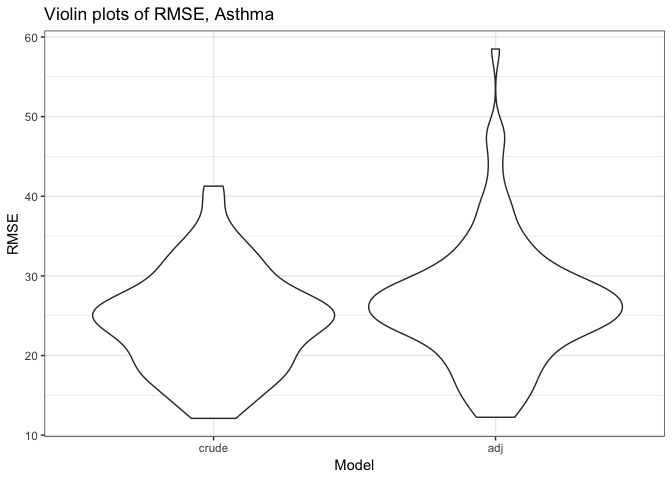
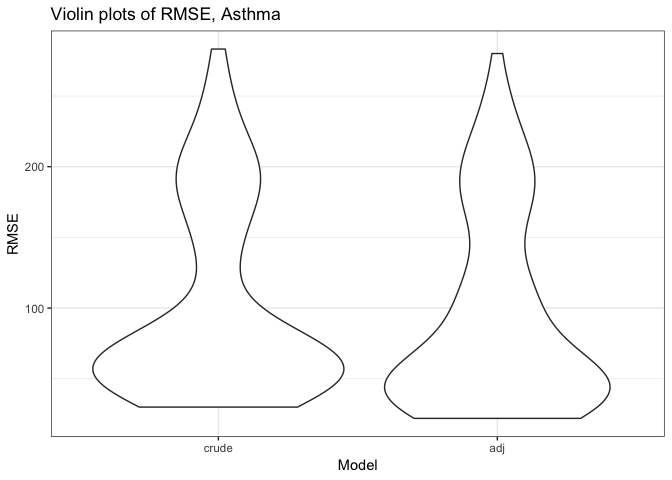
finished model building

diff --git a/model_building.md b/model_building.md
@@ -148,8 +148,8 @@ cv_asthma = crossv_mc(nys_joined, 100)
 # Fit candidate models
 options(warn = -1) # suppress printing all the warnings
 cv_asthma = cv_asthma %>%
-  mutate(crude_asthma_mod = map(train, ~lm(cvd_percent_rate ~ total_unhealthy_days, data = .x)),
-         adj_asthma_mod = map(train, ~lm(cvd_percent_rate ~ total_unhealthy_days + number_of_hospitals, data = .x))) %>%
+  mutate(crude_asthma_mod = map(train, ~lm(asthma_hosp_percent_rate_ratio ~ total_unhealthy_days, data = .x)),
+         adj_asthma_mod = map(train, ~lm(asthma_hosp_percent_rate_ratio ~ total_unhealthy_days + number_of_hospitals, data = .x))) %>%
   mutate(rmse_crude = map2_dbl(crude_asthma_mod, test, ~rmse(model = .x, data = .y)),
          rmse_adj = map2_dbl(adj_asthma_mod, test, ~rmse(model = .x, data = .y)))
 
@@ -169,3 +169,74 @@ cv_asthma %>%
 ```
 
 <img src="model_building_files/figure-markdown_github/asthma_cv-1.png" width="90%" />
+
+#### Diagnostics of adjusted asthma model
+
+``` r
+# Plotting residuals
+nys_joined %>%
+  add_residuals(adj_asthma_model) %>%
+  add_predictions(adj_asthma_model) %>%
+  ggplot(aes(x = pred, y = resid)) + 
+  labs(
+    title = "Plot of residuals against fitted values",
+    x = "Predicted values",
+    y = "Residuals"
+  ) +
+  geom_point(alpha = .5) + 
+  geom_smooth(se = FALSE)
+## `geom_smooth()` using method = 'loess' and formula 'y ~ x'
+```
+
+<img src="model_building_files/figure-markdown_github/asthma_diagnostics-1.png" width="90%" />
+
+#### CVD model
+
+``` r
+set.seed(1)
+cv_cvd = crossv_mc(nys_joined, 100) 
+
+# Fit candidate models
+options(warn = -1) # suppress printing all the warnings
+cv_cvd = cv_cvd %>%
+  mutate(crude_cvd_mod = map(train, ~lm(cvd_percent_rate ~ total_unhealthy_days, data = .x)),
+         adj_cvd_mod = map(train, ~lm(cvd_percent_rate ~ total_unhealthy_days + number_of_hospitals, data = .x))) %>%
+  mutate(rmse_crude = map2_dbl(crude_cvd_mod, test, ~rmse(model = .x, data = .y)),
+         rmse_adj = map2_dbl(adj_cvd_mod, test, ~rmse(model = .x, data = .y)))
+
+# Plot distribution of RMSE
+cv_cvd %>% 
+  select(starts_with("rmse")) %>% 
+  gather(key = model, value = rmse) %>% 
+  mutate(model = str_replace(model, "rmse_", ""),
+         model = fct_inorder(model)) %>% 
+  ggplot(aes(x = model, y = rmse)) + 
+  labs(
+    title = "Violin plots of RMSE, CVD",
+    y = "RMSE",
+    x = "Model"
+  ) +
+  geom_violin()
+```
+
+<img src="model_building_files/figure-markdown_github/cvd_cv-1.png" width="90%" />
+
+#### Diagnostics of adjusted cvd model
+
+``` r
+# Plotting residuals
+nys_joined %>%
+  add_residuals(adj_cvd_model) %>%
+  add_predictions(adj_cvd_model) %>%
+  ggplot(aes(x = pred, y = resid)) + 
+  labs(
+    title = "Plot of residuals against fitted values",
+    x = "Predicted values",
+    y = "Residuals"
+  ) +
+  geom_point(alpha = .5) + 
+  geom_smooth(se = FALSE)
+## `geom_smooth()` using method = 'loess' and formula 'y ~ x'
+```
+
+<img src="model_building_files/figure-markdown_github/cvd_diagnostics-1.png" width="90%" />
